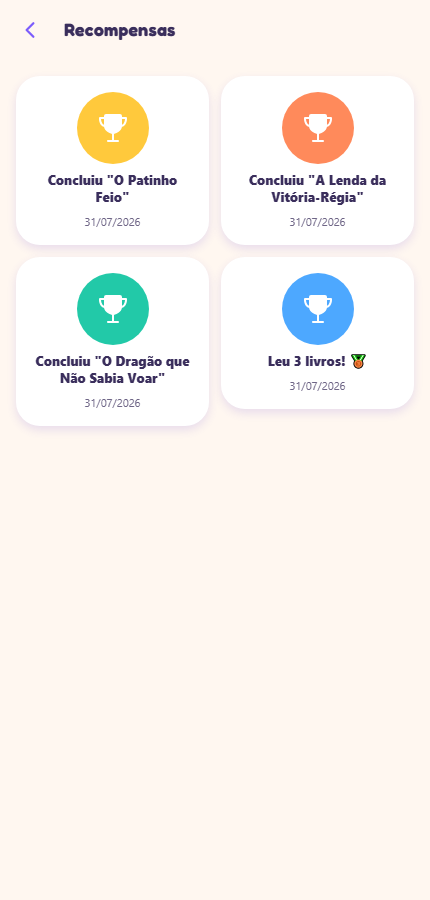
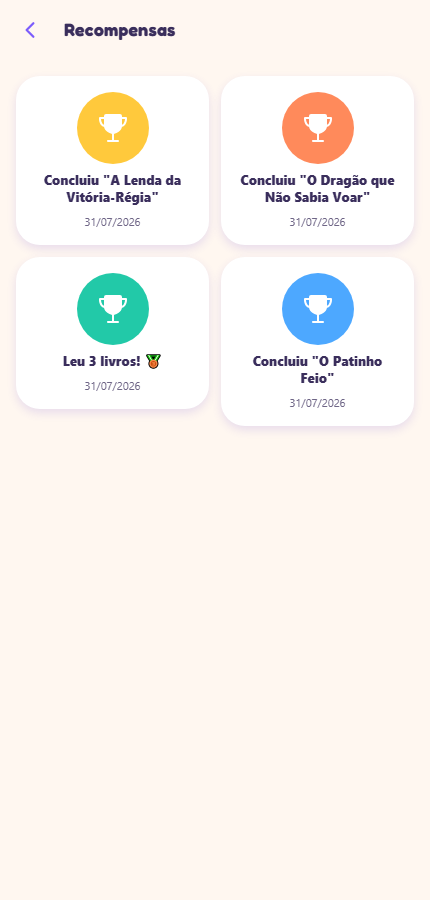
Capa trocada aparece na hora, sem esperar o cache expirar
As capas mantêm o nome do arquivo quando são redesenhadas, e tanto o
Cache-Control da Netlify (7 dias) quanto o service worker (30 dias, com
StaleWhileRevalidate) guardam imagem por semanas. Quem ja tinha visitado o
site continuava vendo a arte antiga, mesmo com o deploy correto no ar.

Agora as capas sao pedidas com um selo de versao (`?v=2026-07-31`), definido
em ASSET_VERSION. Trocou capa, muda a data no mesmo commit e a URL passa a ser
outra, o que derruba os dois caches de uma vez. A regra do service worker
ganhou `(\?.*)?` para continuar casando, senao as capas sairiam do cache
offline.

A narracao ficou de fora do selo de proposito: sao ~60 MB e nao devem ser
rebaixados por causa de arte.

diff --git a/src/media.ts b/src/media.ts
@@ -1,11 +1,18 @@
-import { OFFLINE, fileUrl } from './config';
+import { ASSET_VERSION, OFFLINE, fileUrl } from './config';
 
 // Na web, capa e áudio são sempre URLs: no modo local apontam para /uploads do
 // próprio site, no modo online para o backend. O app mobile precisa distinguir
 // URL de módulo embutido (`require`), aqui não.
 
+// As capas mantêm o nome do arquivo quando são redesenhadas, então o selo de
+// versão é o que faz o navegador (e o service worker) buscarem a nova em vez
+// de servir a guardada. Ver ASSET_VERSION em config.ts.
+function comVersao(url: string): string {
+  return `${url}?v=${ASSET_VERSION}`;
+}
+
 export function coverSource(relPath: string): string {
-  return relPath.startsWith('/') ? fileUrl(relPath) : relPath;
+  return comVersao(relPath.startsWith('/') ? fileUrl(relPath) : relPath);
 }
 
 export function audioSource(relPath: string): string {
@@ -24,5 +31,5 @@ export function coverThumbSource(relPath: string): string | null {
     return null;
   }
   const base = file.replace(/\.[^.]+$/, '');
-  return fileUrl(`/uploads/covers/thumbs/${base}.webp`);
+  return comVersao(fileUrl(`/uploads/covers/thumbs/${base}.webp`));
 }

diff --git a/src/config.ts b/src/config.ts
@@ -21,3 +21,14 @@ export const STATIC_URL = OFFLINE ? '' : API_URL.replace(/\/api\/?$/, '');
 export function fileUrl(path: string): string {
   return `${STATIC_URL}${encodeURI(path)}`;
 }
+
+// Versão das capas.
+//
+// Os arquivos têm nome fixo (`cinderela.jpg` continua `cinderela.jpg` depois de
+// redesenhado), e tanto o cabeçalho de cache da Netlify quanto o service worker
+// guardam imagem por semanas. Sem isso, quem já visitou o site continuaria
+// vendo a capa antiga por até um mês.
+//
+// Trocou alguma capa? Mude a data aqui no mesmo commit. Só as capas usam este
+// selo: a narração tem ~60 MB e não deve ser rebaixada por causa de arte.
+export const ASSET_VERSION = '2026-07-31';

diff --git a/vite.config.ts b/vite.config.ts
@@ -52,7 +52,10 @@ export default defineConfig({
             },
           },
           {
-            urlPattern: /\/uploads\/covers\/.*\.(png|jpe?g|webp)$/,
+            // O `(\?.*)?` é obrigatório: as capas são pedidas com o selo de
+            // versão (`?v=...`), e sem isso a regra deixaria de casar e elas
+            // sairiam do cache offline.
+            urlPattern: /\/uploads\/covers\/.*\.(png|jpe?g|webp)(\?.*)?$/,
             handler: 'StaleWhileRevalidate',
             options: {
               cacheName: 'capas',
